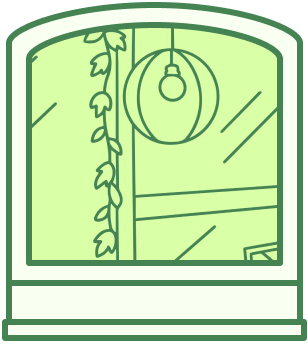
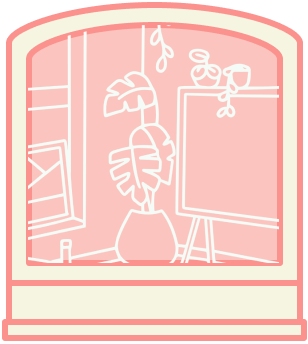
hehe

diff --git a/client/src/App.js b/client/src/App.js
@@ -3,23 +3,102 @@ import OverlayBox from './components/OverlayBox';
 import { NextUIProvider } from '@nextui-org/react';
 
 function App() {
+  const startDate = new Date('2023-10-15');
+  const today = new Date();
+  const timeDifference = today - startDate;
+  const daysApart = Math.floor(timeDifference / (1000 * 60 * 60 * 24));
+  const nextAnniversary = new Date('2025-10-15');
+  const timeUntilNextAnniversary = nextAnniversary - today;
+  const daysUntilNextAnniversary = Math.floor(
+    timeUntilNextAnniversary / (1000 * 60 * 60 * 24)
+  );
+
   return (
     <NextUIProvider>
-      <div className="p-6 min-h-screen min-w-full bg-lightgreen">
-        <div className="p-24 grid grid-cols-1 max-w-[964px]">
+      <div className="p-24 min-h-screen min-w-full bg-lightpink">
+        <div className="text-center">
+          <h1 className="font-bold text-5xl text-primarydark">
+            For Ririe, from Ranrie
+          </h1>
+          <p className="text-xl p-4 text-secondarydark">2.14.2025</p>
+        </div>
+        <div className="p-6 grid grid-cols-1 max-w-[964px]">
           <img src="/imgs/chimney.png" alt="Chimney" className="" />
           <div className="px-3">
-            <div className="p-6 outline outline-4 outline-primarygreen flex flex-col">
+            <div className="p-6 outline outline-4 outline-primarypink flex flex-col bg-whitebeige">
               <div className="grid grid-cols-3 gap-6">
-                <OverlayBox dayNumber="1">
-                  <p>Hellooo</p>
+                <OverlayBox dayNumber="1" title="Day 1 - The Beginning">
+                  <>
+                    <p>
+                      Happy{' '}
+                      <span className="underline decoration-wavy decoration-primarypink">
+                        {daysApart}{' '}
+                      </span>
+                      days from our first day dating! <br />
+                      Did you know we're also{' '}
+                      <span className="underline decoration-wavy decoration-primarypink">
+                        {daysUntilNextAnniversary}
+                      </span>{' '}
+                      days from our next anniversary?
+                    </p>
+                    <img
+                      src="https://media.tenor.com/WUfk54aazc8AAAAM/filthy-frank-dance-filthy-frank.gif"
+                      alt="Filthy Frank Dance"
+                      className="m-4 h-48 w-auto mx-auto"
+                    />
+                    <p mb-4>
+                      <a
+                        className="text-center underline decoration-whitebeige"
+                        href="https://open.spotify.com/playlist/5JzRdivzrRDt1i6KC65vJJ?si=A9PyLh5UQNSVeZYKIUbhxQ&pi=QDU-m-zySKSsz"
+                      >
+                        Listen to this 7-pieces playlist while opening the
+                        cards!
+                      </a>
+                      <br />I filled it with the most memorable songs for
+                      different reasons, try to guess why I included each one{' '}
+                      {';)'}
+                    </p>
+                  </>
                 </OverlayBox>
-                <OverlayBox dayNumber="2"></OverlayBox>
-                <OverlayBox dayNumber="3"></OverlayBox>
-                <OverlayBox dayNumber="4"></OverlayBox>
-                <OverlayBox dayNumber="5"></OverlayBox>
-                <OverlayBox dayNumber="6"></OverlayBox>
-                <OverlayBox dayNumber="7"></OverlayBox>
+                <OverlayBox dayNumber="2" title="Day 2 - Learning"></OverlayBox>
+                <OverlayBox
+                  dayNumber="3"
+                  title="Day 3 - Acclimation"
+                ></OverlayBox>
+                <OverlayBox
+                  dayNumber="4"
+                  title="Day 4 - Appreciation"
+                ></OverlayBox>
+                <div className="grid grid-cols-1">
+                  <OverlayBox dayNumber="5"></OverlayBox>
+                  <OverlayBox
+                    dayNumber="6"
+                    title="Day 6 - Bracing Against the Unknown"
+                  ></OverlayBox>
+                </div>
+                <OverlayBox
+                  dayNumber="7"
+                  title="Day 7 - Promises and Constants"
+                >
+                  <>
+                    <p>
+                      I promise to always be there for you, to support you, to
+                      love you, and to cherish you. <br />
+                      I promise to always be honest with you, to communicate
+                      with you, and to be patient with you. <br />
+                      I promise to always be kind to you, to respect you, and to
+                      be loyal to you. <br />
+                      I promise to always be your partner, your friend, and your
+                      lover. <br />I promise to always be your Ranrie.
+                    </p>
+                    <img
+                      src="https://media.tenor.com/UtEMV7qJev8AAAAi/hiiru-hiiruthemouse.gif"
+                      alt="Ranrie's Choco gift"
+                      className="m-4 h-48 w-auto mx-auto"
+                    />
+                    <p>Happy Valentines Day, Ririe!</p>
+                  </>
+                </OverlayBox>
               </div>
             </div>
           </div>

diff --git a/client/src/components/OverlayBox.js b/client/src/components/OverlayBox.js
@@ -1,8 +1,9 @@
 import React, { useState } from 'react';
 import { Modal, ModalContent, ModalHeader, ModalBody } from '@nextui-org/modal';
+import './OverlayBox.css';
 
 // TODO: add animation on hover motion
-const OverlayBox = ({ dayNumber, children }) => {
+const OverlayBox = ({ dayNumber, title, children }) => {
   const [isHovered, setIsHovered] = useState(false);
   const [isOpen, setIsOpen] = useState(false);
 
@@ -17,8 +18,10 @@ const OverlayBox = ({ dayNumber, children }) => {
     <>
       <img
         src={isHovered || isOpen ? hoverImage : idleImage}
-        alt={`Day ${dayNumber}`}
-        className="cursor-pointer"
+        alt={`${title}`}
+        className={`cursor-pointer transition-image ${
+          isHovered ? 'hovered' : ''
+        }`}
         onMouseEnter={handleMouseEnter}
         onMouseLeave={handleMouseLeave}
         onClick={() => setIsOpen((prev) => !prev)}
@@ -29,9 +32,9 @@ const OverlayBox = ({ dayNumber, children }) => {
         onOpenChange={setIsOpen}
         backdrop="blur"
         classNames={{
-          backdrop: 'bg-[#004d40]/50',
-          base: 'bg-[#1B1B1B] text-white',
-          header: 'border-b border-[#004d40]',
+          backdrop: 'bg-[#8174A0]/50',
+          base: 'bg-[#441752] text-white min-w-[68%] min-h-[68%]',
+          header: 'border-b border-[#8174A0]',
           body: 'py-6',
         }}
         size="4xl"
@@ -41,10 +44,8 @@ const OverlayBox = ({ dayNumber, children }) => {
         <ModalContent>
           {(onClose) => (
             <>
-              <ModalHeader>Day {dayNumber}</ModalHeader>
-              <ModalBody>
-                <p>Hello!</p>
-              </ModalBody>
+              <ModalHeader className="text-xl p-6">{title}</ModalHeader>
+              <ModalBody className="text-lg">{children}</ModalBody>
             </>
           )}
         </ModalContent>

diff --git a/client/tailwind.config.js b/client/tailwind.config.js
@@ -11,6 +11,11 @@ module.exports = {
       colors: {
         lightgreen: '#F9FFF1',
         primarygreen: '#458352',
+        lightpink: '#FBEAD9',
+        whitebeige: '#F6F5E1',
+        primarypink: '#FB928E',
+        primarydark: '#441752',
+        secondarydark: '#A888B5',
       },
     },
   },

diff --git a/client/src/components/OverlayBox.css b/client/src/components/OverlayBox.css
@@ -1,0 +1,8 @@
+.transition-image {
+    transition: transform 0.3s ease, opacity 0.3s ease;
+  }
+  
+  .transition-image.hovered {
+    transform: scale(1.05);
+    /* opacity: 0.8; */
+  }
